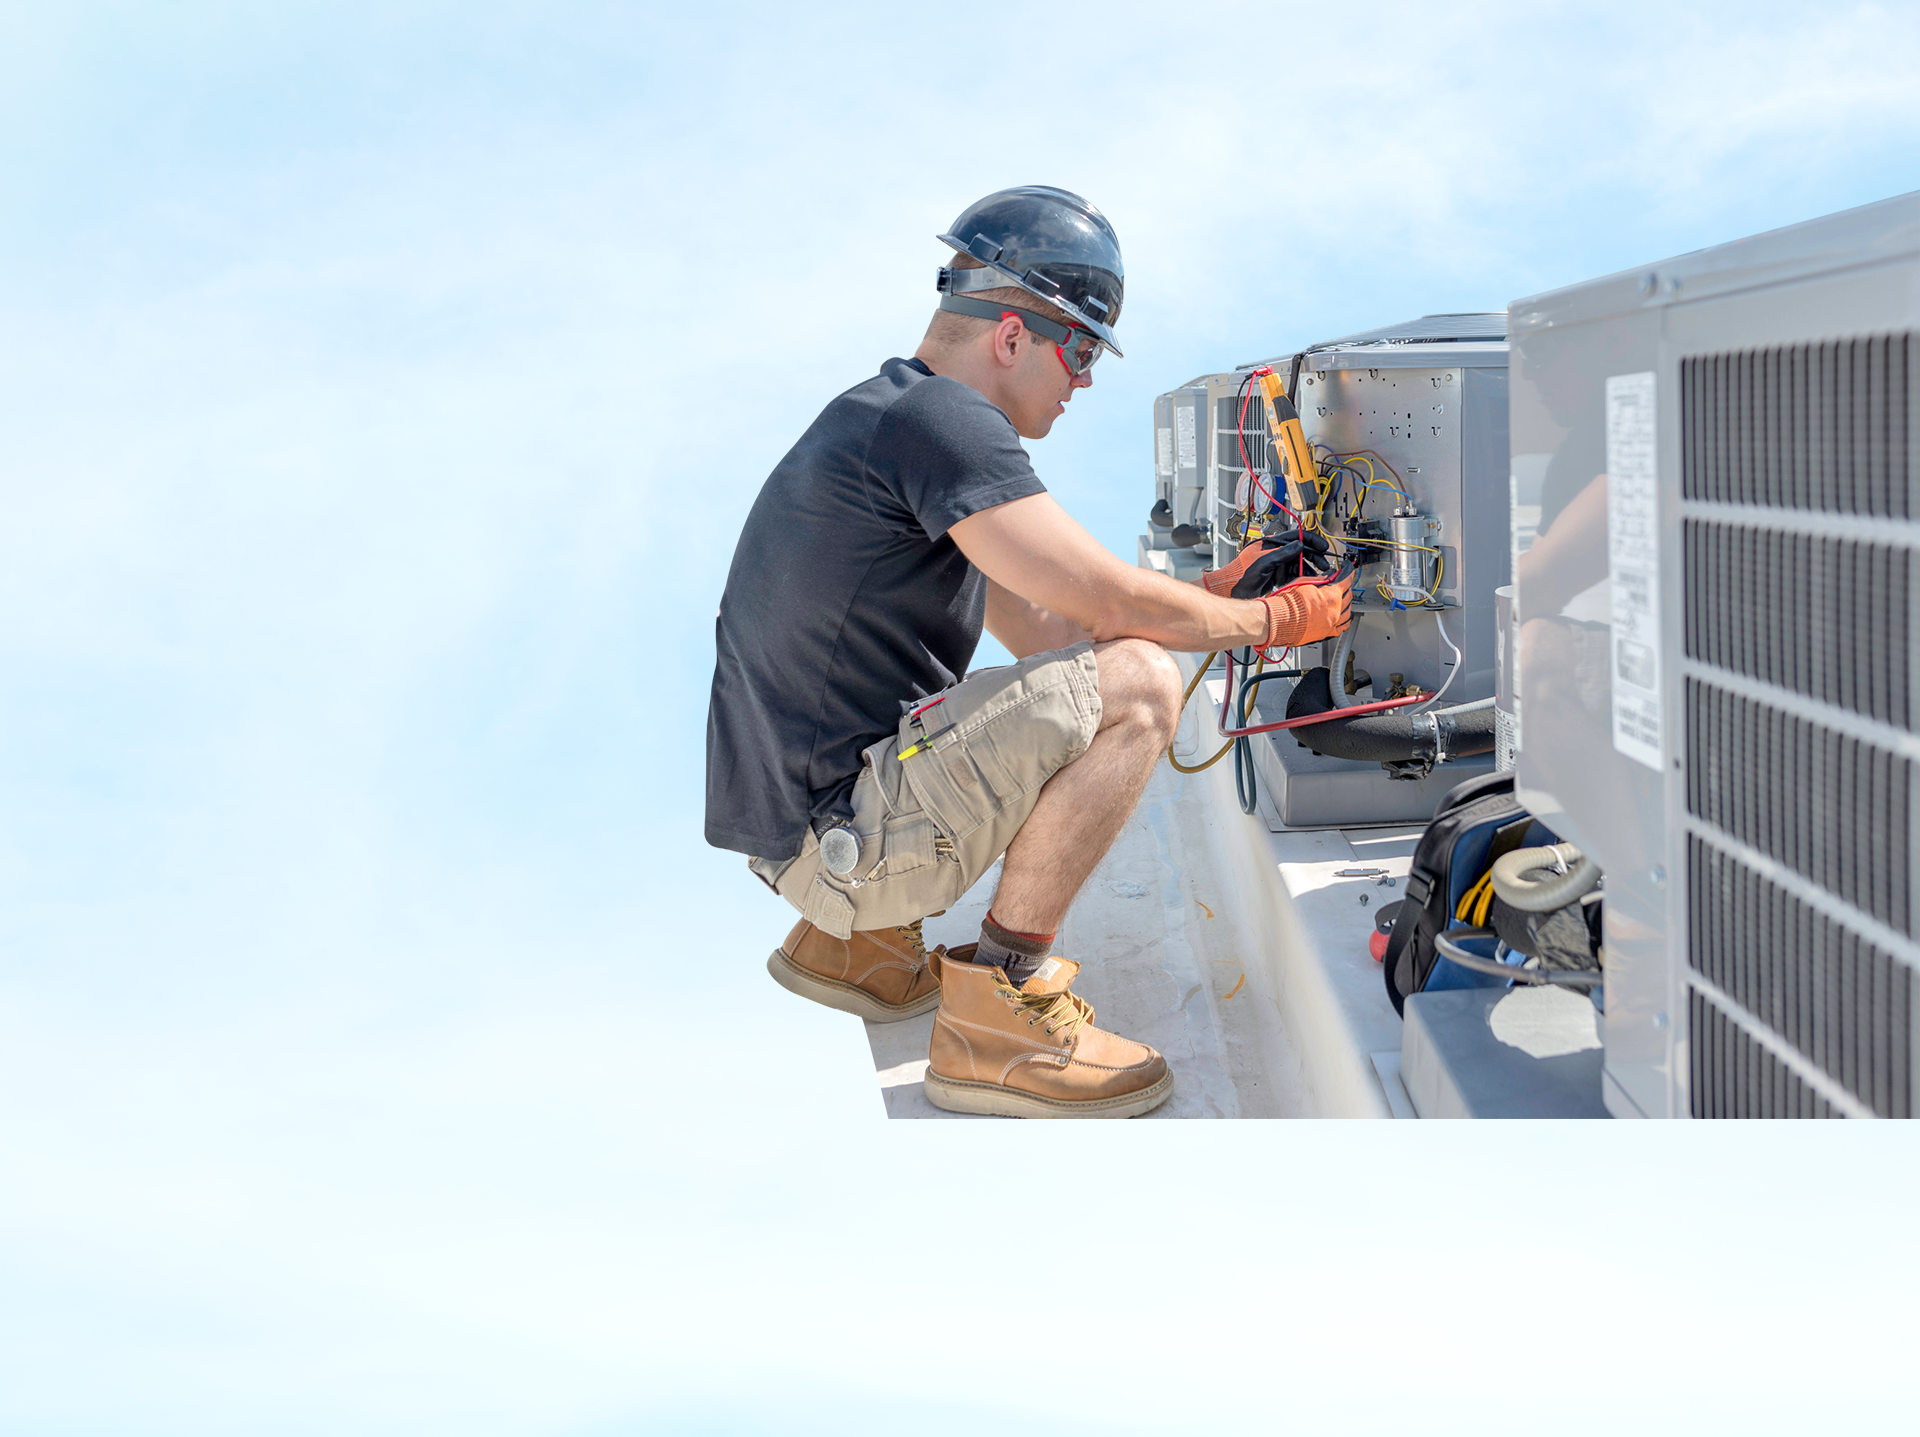
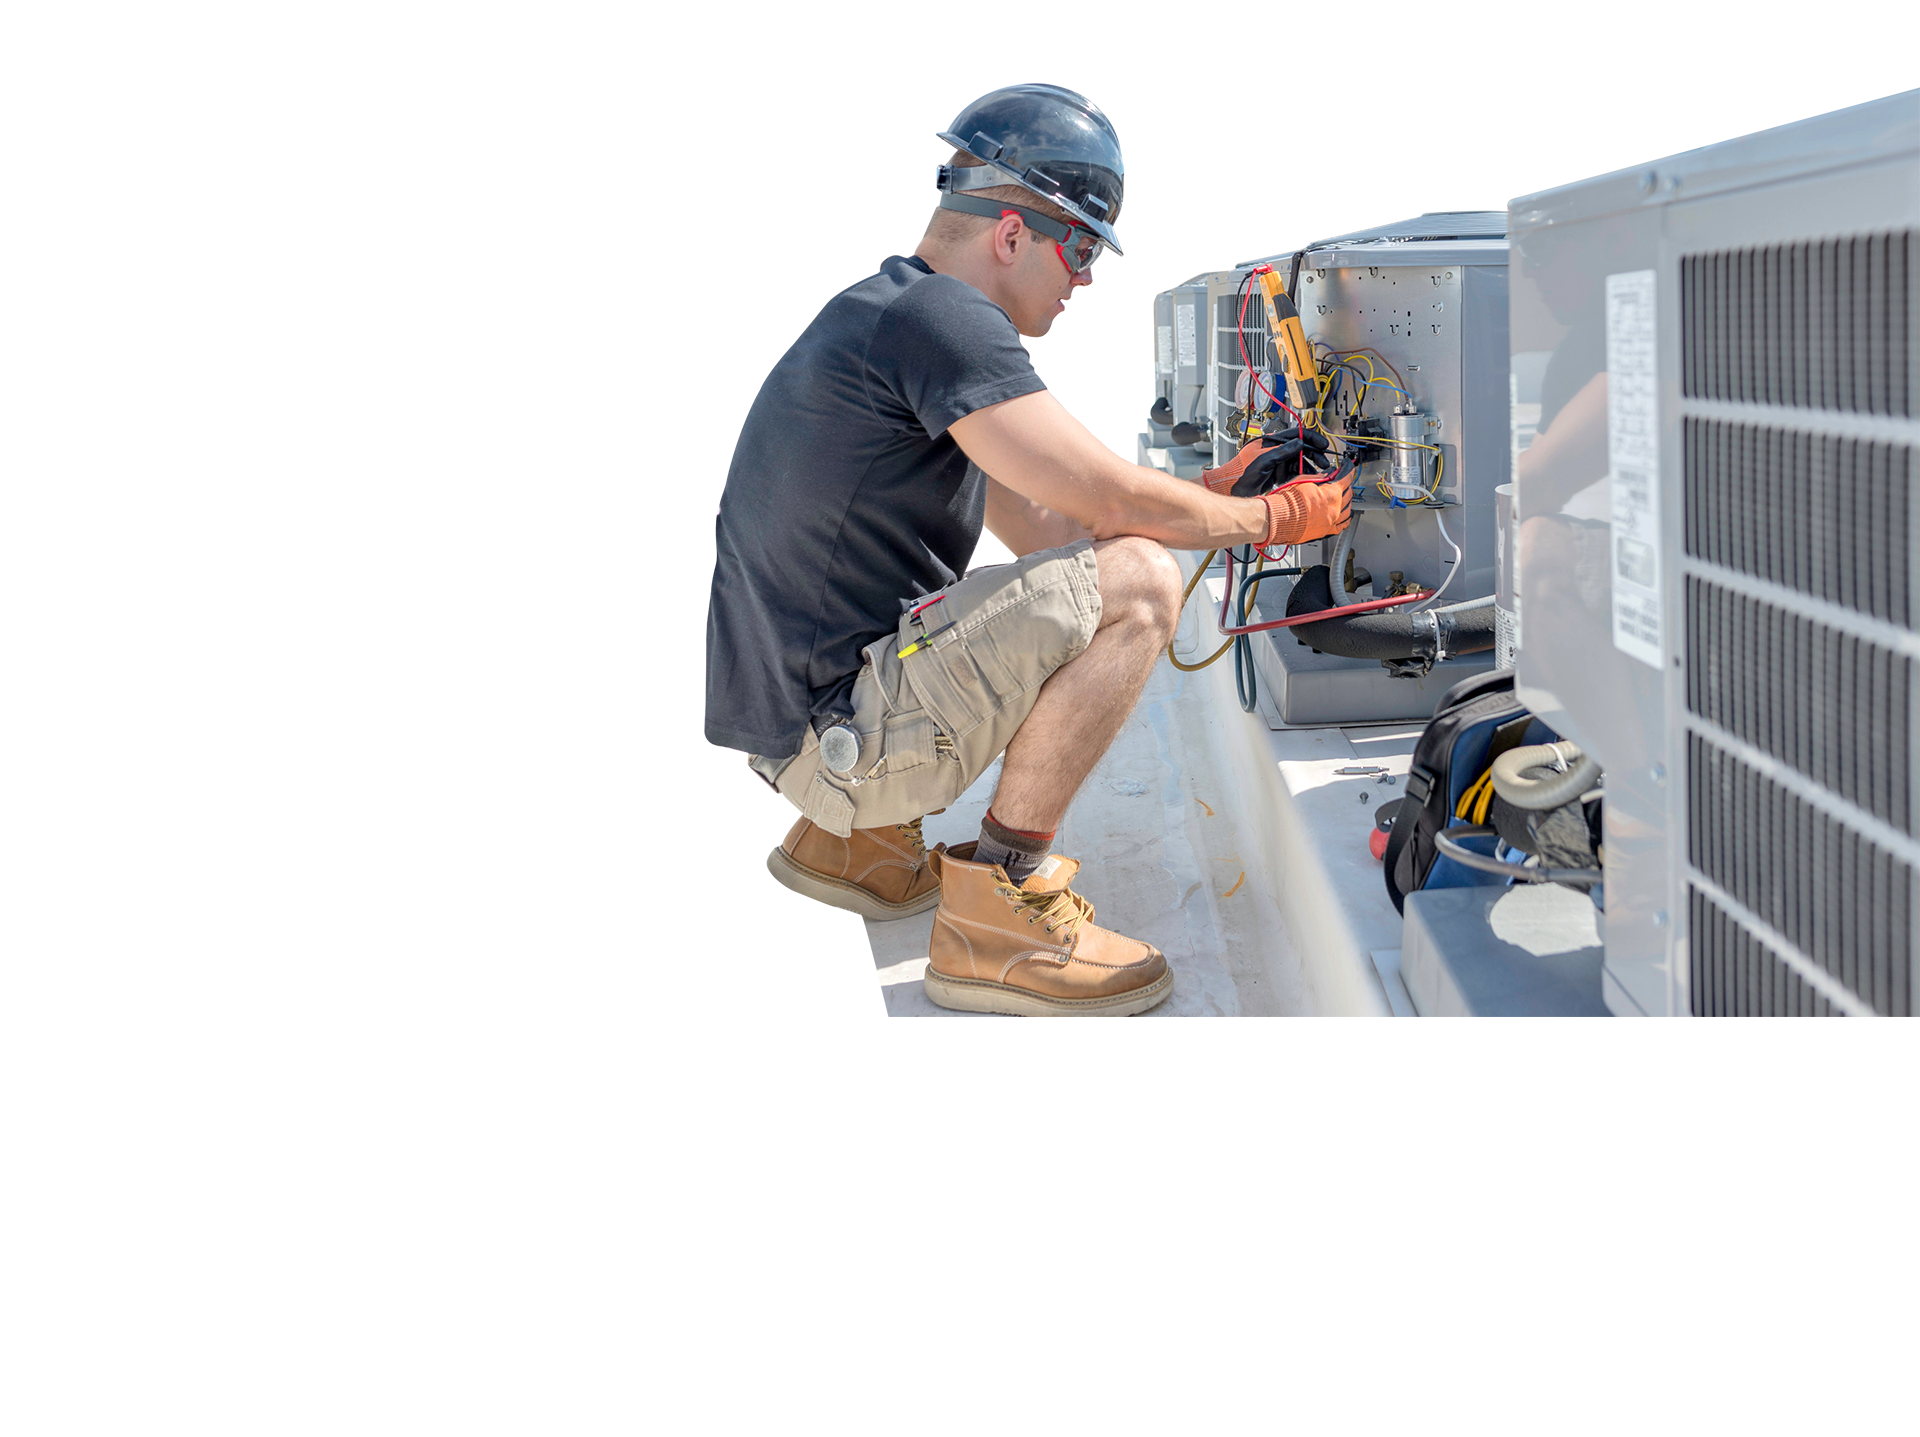
update

diff --git a/index.html b/index.html
@@ -31,8 +31,8 @@
                         </div>
                     </div>
                     <a href="(403) 226-6066"
-                        class="btn btn-2 btn-dark rounded-circle d-flex align-items-center call-button2"
-                        type="button" id="button-addon1"><img src="images/phoneIcon.png" alt="phone"></a>
+                        class="btn btn-2 btn-dark rounded-circle d-flex align-items-center call-button2" type="button"
+                        id="button-addon1"><img src="images/phoneIcon.png" alt="phone"></a>
                     <button class="btn menu-btn bg-transparent border-0" type="button" data-bs-toggle="offcanvas"
                         data-bs-target="#offcanvasRight" aria-controls="offcanvasRight"><img class="menu"
                             src="images/menu.png" alt="menu"></button>
@@ -40,18 +40,50 @@
                     <div class="offcanvas offcanvas-end" tabindex="-1" id="offcanvasRight"
                         aria-labelledby="offcanvasRightLabel">
                         <div class="offcanvas-header">
-                            <h5 class="offcanvas-title" id="offcanvasRightLabel">Offcanvas right</h5>
+                            <h5 class="offcanvas-title" id="offcanvasRightLabel"><img src="images/logo.png" alt="stat"
+                                    class="w-25"></h5>
                             <button type="button" class="btn-close" data-bs-dismiss="offcanvas"
                                 aria-label="Close"></button>
                         </div>
                         <div class="offcanvas-body">
-                            ...
+                            <ul class="navbar-nav">
+                                <li class="nav-item"><a href="#" class="nav-link fs-4">Home</a></li>
+                                <li class="nav-item"><a href="#" class="nav-link fs-4">Service</a></li>
+                                <li class="nav-item"><a href="#" class="nav-link fs-4">Contact</a></li>
+                            </ul>
                         </div>
                     </div>
                 </div>
             </div>
         </div>
+        <section class="hero">
+            <div class="container">
+                <div class="row g-1 align-items-center">
+                    <div class="col-12 col-lg-4">
+                        <div class="hero-content">
+                            <h1 class="fw-bold">Services & <br />
+                                Maintenance</h1>
+                            <p class="fw-semibold">Lorem ipsum dolor sit amet, consectetur
+                                iscing elit. Donec non mi tincidunt,
+                                consectetur nibh ac nun.</p>
+                            <a href="#" class="btn btn-red rounded-pill">Contact Us <div class="arrow-right"><svg
+                                        xmlns="http://www.w3.org/2000/svg" width="16" height="16" fill="currentColor"
+                                        class="bi bi-arrow-right" viewBox="0 0 16 16">
+                                        <path fill-rule="evenodd"
+                                            d="M1 8a.5.5 0 0 1 .5-.5h11.793l-3.147-3.146a.5.5 0 0 1 .708-.708l4 4a.5.5 0 0 1 0 .708l-4 4a.5.5 0 0 1-.708-.708L13.293 8.5H1.5A.5.5 0 0 1 1 8z" />
+                                    </svg></div></a>
+                        </div>
+                    </div>
+
+                </div>
+
+            </div>
+            <img class="img-fluid res" src="images/hero.png" alt="stat">
+        </section>
     </header>
+
+
+
 
 
 

diff --git a/css/responsive.css b/css/responsive.css
@@ -1,3 +1,16 @@
+@media only screen and (max-width: 1400px) {
+    .btn-red {
+        width: 43%;
+    }
+
+    .btn-red:hover {
+        background: linear-gradient(to left, #e92428, #b02022);
+        color: #fff;
+        width: 48%;
+    }
+
+}
+
 @media only screen and (max-width: 1200px) {
     .call-us {
         font-size: 10px;
@@ -10,9 +23,21 @@
     .phone-number {
         font-size: 14px;
     }
+
+    .btn-red {
+        width: 50%;
+    }
+
+    .btn-red:hover {
+        width: 55%;
+    }
 }
 
 @media only screen and (max-width: 992px) {
+    .res {
+        display: block;
+    }
+
     .btn-1 {
         display: none !important;
     }
@@ -27,6 +52,26 @@
 
     .menu-btn {
         padding: 0;
+    }
+
+    .hero {
+        background: transparent;
+        text-align: center;
+    }
+
+    .btn-red {
+        width: 25%;
+        padding: 2% 5%;
+        padding-right: 0;
+    }
+
+
+    .btn-red:hover {
+        width: 27%;
+    }
+
+    .hero {
+        padding-top: 2%;
     }
 }
 
@@ -48,6 +93,26 @@
     .logo img {
         width: 50%;
     }
+
+    .btn-red {
+        width: 32%;
+    }
+
+
+    .btn-red:hover {
+        width: 37%;
+    }
+}
+
+@media only screen and (max-width: 468px) {
+    .btn-red {
+        width: 38%;
+    }
+
+
+    .btn-red:hover {
+        width: 42%;
+    }
 }
 
 @media only screen and (max-width: 430px) {
@@ -68,5 +133,25 @@
 
     .btn-2 img {
         width: 100%;
+    }
+}
+
+@media only screen and (max-width: 392px) {
+    .btn-red {
+        width: 42%;
+    }
+
+    .btn-red:hover {
+        width: 45%;
+    }
+}
+
+@media only screen and (max-width: 350px) {
+    .btn-red {
+        width: 48%;
+    }
+
+    .btn-red:hover {
+        width: 50%;
     }
 }

diff --git a/css/style.css b/css/style.css
@@ -1,7 +1,11 @@
+@import url('https://fonts.googleapis.com/css2?family=Roboto:wght@100;300;400;500;700;900&display=swap');
+
 body {
-    background: url(../images/hero.png);
+    background: url(../images/heroBg.png);
     background-repeat: no-repeat;
     background-size: cover;
+    font-family: 'Roboto', sans-serif;
+    overflow-x: hidden !important;
 }
 
 .logo {
@@ -55,6 +59,48 @@ body {
     height: 45px;
     width: 45px;
 }
+
 .btn-2 img {
     width: 80%;
+}
+
+.btn-red {
+    background: linear-gradient(to right, #e92428, #b02022);
+    color: #fff;
+    font-weight: 500;
+    padding: 3% 7%;
+    padding-right: 0;
+    transition: all 0.5s;
+    width: 40%;
+}
+
+.btn-red:hover {
+    background: linear-gradient(to left, #e92428, #b02022);
+    color: #fff;
+    width: 45%;
+}
+
+.btn-red .arrow-right {
+    background: #ffffff6b;
+    display: inline;
+    padding: 5% 6%;
+    border-radius: 100%;
+    margin-left: 5%;
+    transition: all 0.5s;
+}
+
+.btn-red:hover .arrow-right {
+    margin-left: 15%;
+}
+.hero {
+    background: url(../images/hero.png);
+    background-repeat: no-repeat;
+    background-size: cover;
+    background-position: top;
+    object-fit: cover;
+    padding-top: 15%;
+    padding-bottom: 10%;
+}
+.res {
+    display: none;
 }
